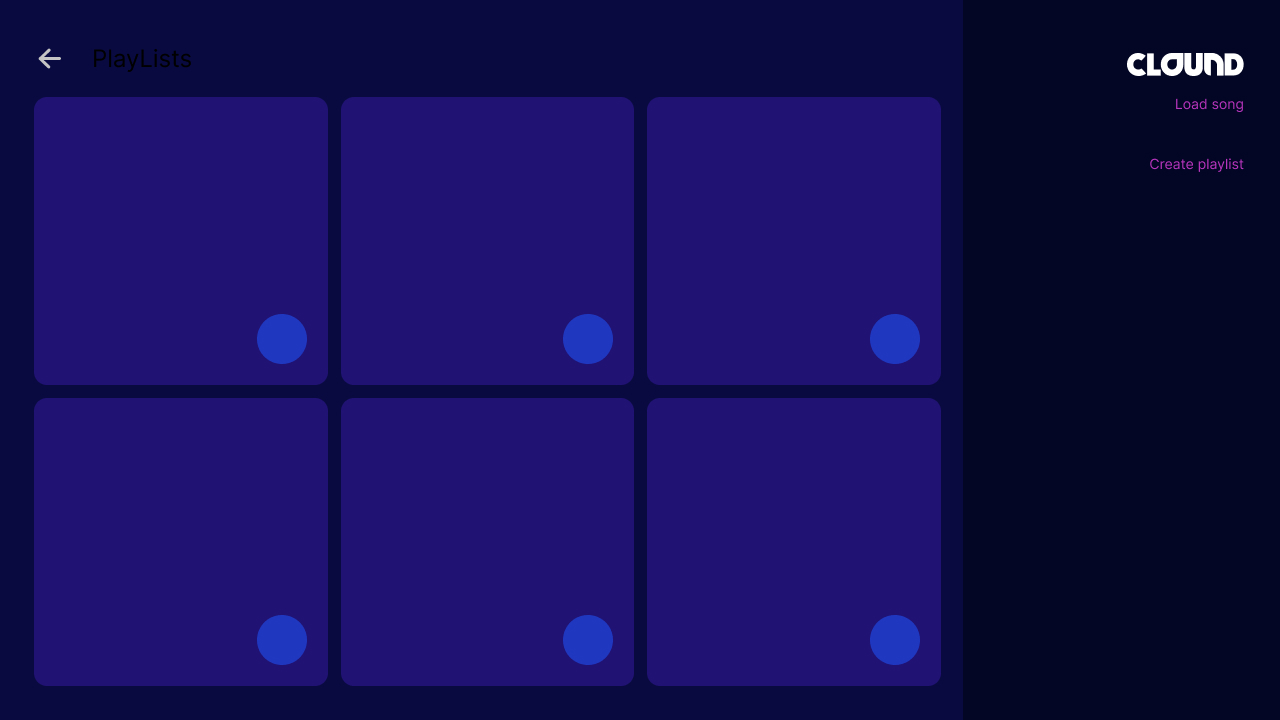
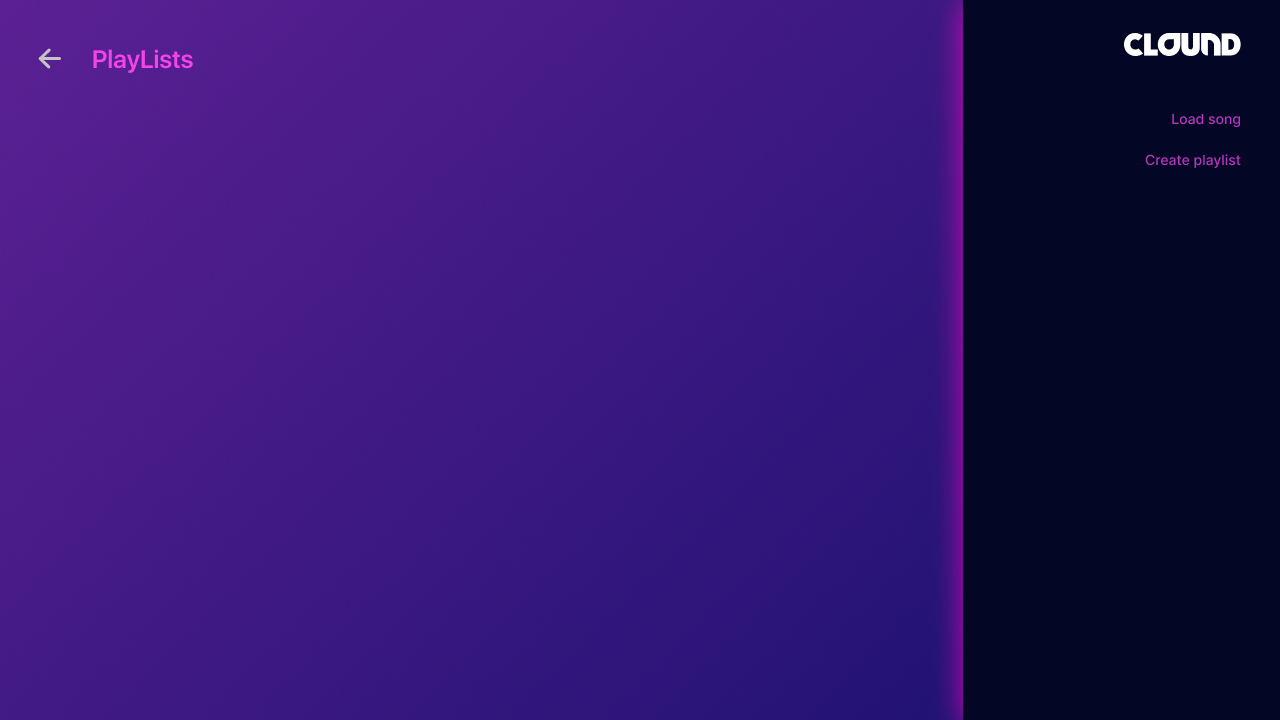
Ya casiii

diff --git a/Interface.js b/Interface.js
@@ -26,6 +26,8 @@ class Interface{
         this._boxes[32] = loadImage('/Images/HomePlayList3.png');
         this._buttons[0] = loadImage('/Images/PlayButton.png');
         this._buttons[1] = loadImage('/Images/PauseButton.png');
+        this._buttons[2] = loadImage('/Images/NextSong.png');
+        this._buttons[3] = loadImage('/Images/PreviousSong.png');
         this._fonts[0] = loadFont('/Fonts/Poppins-Bold.ttf');
         this._fonts[1] = loadFont('/Fonts/Poppins-Regular.ttf');
         this._fonts[2] = loadFont('/Fonts/sf-ui-display-bold.otf');
@@ -86,15 +88,18 @@ class Interface{
         for (let index = 0; index < songArray.length; index++) {
             const song = songArray[index];
             textAlign(LEFT);
+            image(this._boxes[2], x - 22, y - 30);
             textSize(16);
+            textFont(this._fonts[0]);
             fill(255);
-            text(song.name, x, y);
+            text(song.name, x, y + 5);
             fill(255);
-            textSize(14)
-            text(song.artist, x, y + 16);
+            textSize(13);
+            textFont(this._fonts[1]);
+            text(song.artist, x, y + 24);
             noStroke();
             fill(100);
-            circle(x + 242, y + 14, 35);
+            image(this._buttons[0], x + 225, y - 3, 34, 34);
             x += 303;
             if(x > 800){
                 x = 50;
@@ -102,20 +107,39 @@ class Interface{
             }
         }
     }
-    allPlaylists(){
+    allPlaylists(playListArray){
         image(this._Backgrounds[3], 0, 0);
+        let x = 50;
+        let y = 120;
+        for (let index = 0; index < playListArray.length; index++) {
+            const playList = playListArray[index];
+            textAlign(LEFT);
+            image(this._boxes[2], x - 22, y - 30);
+            textSize(16);
+            textFont(this._fonts[0]);
+            fill(255);
+            text(playList.name, x, y + 5);
+            image(this._buttons[0], x + 225, y - 3, 34, 34);
+            x += 303;
+            if(x > 800){
+                x = 50;
+                y += 85;
+            }
+        }
     }
     playingSong(song, arraySong){
         image(this._Backgrounds[4], 0, 0);
 
         //Textos
-        fill(0);
+        fill(255);
         textAlign(CENTER);
+        textFont(this._fonts[0])
         textSize(40);
         text(song.name, 640,500);
 
         textSize(20);
-        fill(80);
+        fill(114, 204, 255);
+        textFont(this._fonts[3]);
         text(song.artist, 640, 530);
 
         fill(0, 80);
@@ -128,6 +152,8 @@ class Interface{
                 image(this._buttons[1], 615, 563, 53, 53);
             }
         }
+        image(this._buttons[2], 694, 579);
+        image(this._buttons[3], 551, 579);
     }
     songWindow(playingSong, screen, arraySong){
         if(playingSong !== null && screen !== 0 && screen !== 4){
@@ -147,6 +173,8 @@ class Interface{
                     image(this._buttons[1], 1100, 650, 42, 42);
                 }
             }
+            image(this._buttons[2], 1168, 656);
+            image(this._buttons[3], 1035, 656);
         }
     }
 }

diff --git a/App.js b/App.js
@@ -6,7 +6,7 @@ class App{
         this.loadSongFiles();
         this.loadImageFiles();
         this._interface = new Interface();
-        this._screen = 1;
+        this._screen = 3;
         this._playLists = [];
         this.songDates();
         this._playingSong = null;
@@ -232,18 +232,24 @@ class App{
                 this._interface.allSongs(this._songs);
                 break;
             case 3:
-                this._interface.allPlaylists();
+                this._interface.allPlaylists(this._playLists);
                 break;
             case 4:
                 this._interface.playingSong(this._playingSong, this._songs);
+                fill(114, 204, 255);
+                rect(873, 587, this._volumeSlider - 873, 8);
                 fill(255)
-                circle(this._volumeSlider, 590, 10);
+                circle(this._volumeSlider, 591, 15);
+                
                 for (let index = 0; index < this._songs.length; index++) {
                     const song = this._songs[index];
                     if(song.isPlaying === true){
                         const loading = map(this._songs[index].soundFile.currentTime(), 0, this._songs[index].soundFile.duration(), 280, 990);
                         this._loadingSlider = loading;
-                        circle(this._loadingSlider, 633, 10);
+                        fill(243, 68, 231);
+                        rect(284, 630, this._loadingSlider - 280, 8);
+                        fill(255);
+                        circle(this._loadingSlider, 634, 15);
                     }
                 }
                 break;
@@ -252,7 +258,7 @@ class App{
         for (let index = 0; index < this._songs.length; index++) {
             const song = this._songs[index];
             if(song.soundFile.isPlaying()){
-                if(this._songs[index].soundFile.currentTime() > this._songs[index].soundFile.duration() - 1){
+                if(this._songs[index].soundFile.currentTime() > this._songs[index].soundFile.duration() - 2){
                     this._songs[index].stopSong();
                     index += 1;
                     this._songs[index].playSong();
